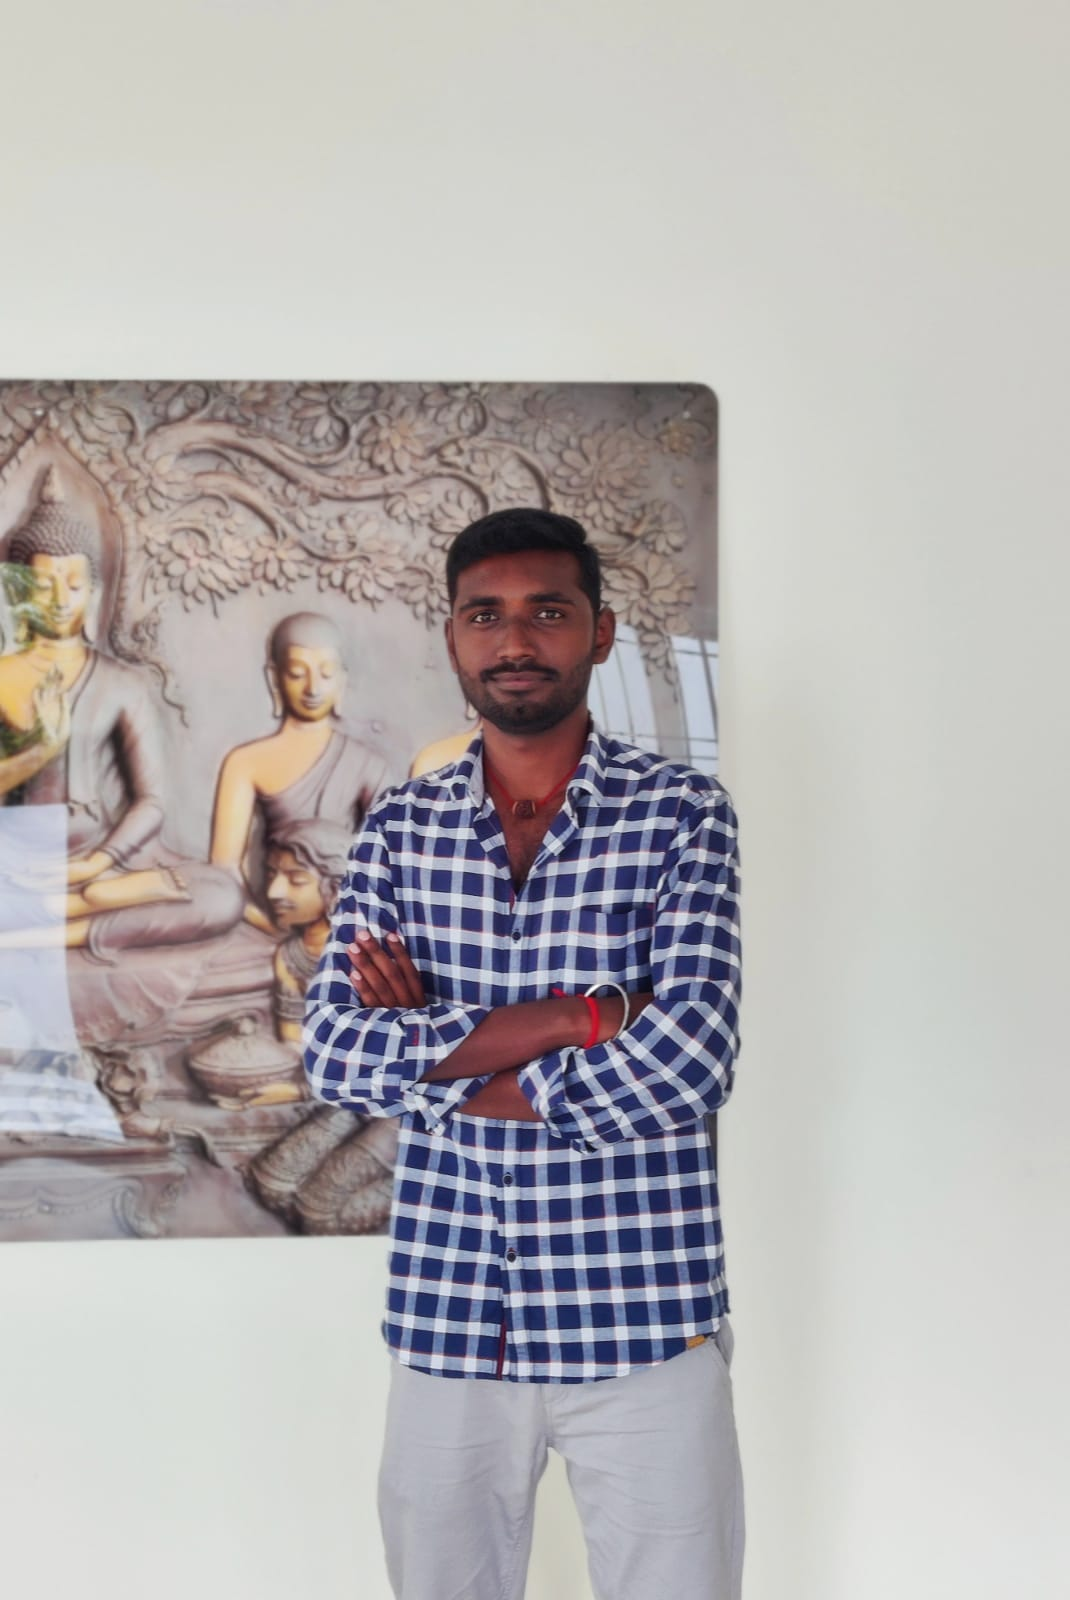
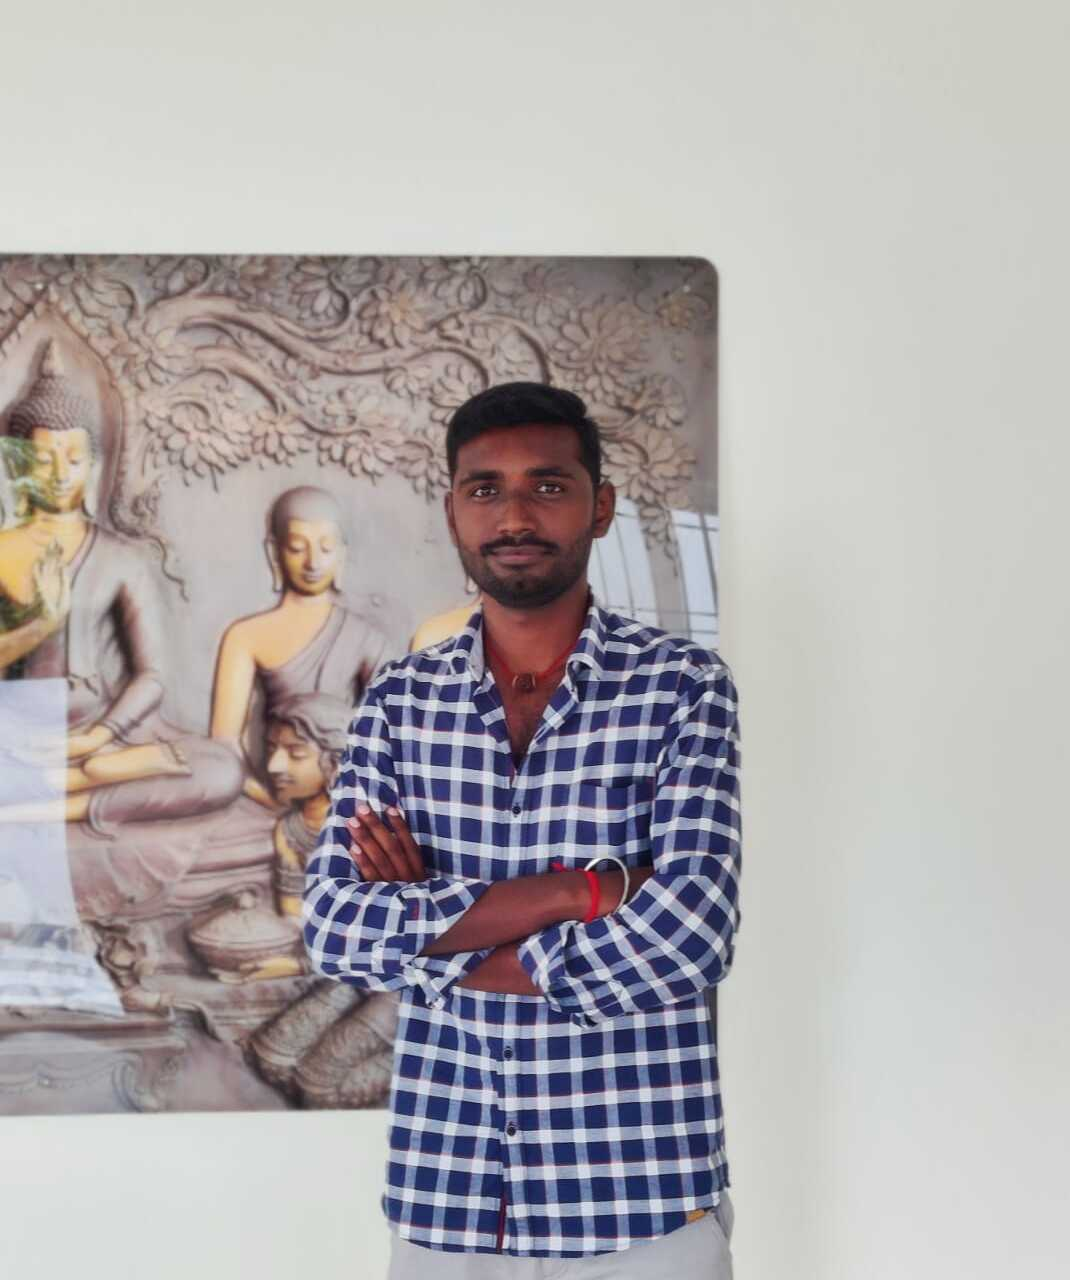
Add files via upload

diff --git a/index.html b/index.html
@@ -32,9 +32,9 @@
     </div>
     <section class="bg-img d-flex flex-column justify-content-center" id="home-section">
         <nav class="navbar navbar-dark navbar-expand-lg fixed-top" id="navbar">
-            <div class="container">
+            <div class="container align-items-center">
                 <!-- Brand -->
-                <a class="navbar-brand my_name" href="#"></a>
+                <a class="navbar-brand my_name" href="javascript:;"></a>
         
                 <!-- Hamburger Button: Visible on md and smaller -->
                 <button class="toggle-btn open-btn d-lg-none" type="button">
@@ -63,8 +63,8 @@
                 <!-- Mobile Sidebar Menu: Only on md and below -->
                 <div class="nav-bar d-lg-none">
                     <button class="close-btn"><i class="fas fa-circle-xmark"></i></button>
-                    <h3 class="margin-20px my_name"></h3>
-                    <p class="light-dark margin-rl pb-3">Menus</p>
+                    <!-- <h3 class="margin-20px my_name"></h3> -->
+                    <p class="light-dark margin-rl py-3 fw-bold text-uppercase">M e n u s</p>
                     <ul class="navbar-nav">
                         <li class="nav-item">
                             <a class="nav-link active-nav" href="#home-section"><i class="fas fa-house nav-icon"></i>Home</a>
@@ -89,15 +89,16 @@
             </div>
         </nav>
         
-        <main class="container text-white text-center my-5">
-            <h1 class="banner-text poppins-medium wow animate__animated animate__fadeInUp">I'M <span class="my_name"></span></h1>
-            <h2 class="poppins-regular mb-4 wow animate__animated animate__fadeInUp" data-wow-delay="0.2s">
-                <span class="txt-theme-color my_role_fname"></span> <span class="my_role_lname"></span>
-            </h2>
+        <main class="container text-white text-center">
+            <h4 class="poppins-regular text-ddd text-uppercase mb-4 wow animate__animated animate__fadeInUp" data-wow-delay="0.2s">
+                <span class="my_role_fname"></span> <span class="my_role_lname"></span>
+            </h4>
+            <h1 class="banner-text mb-4 poppins-medium wow animate__animated animate__fadeInUp"><span class="my_name"></span></h1>
+            <p class="text-ddd mb-5 wow animate__animated animate__fadeInUp"  data-wow-delay="0.3s">3+ years of experience in web and mobile application development.</p>
             <a href="mailto:sutharsanan100@gmail.com"
                class="nav-link hover-button py-3 px-5 wow animate__animated animate__fadeInUp"
                style="width: max-content; margin: auto;"
-               data-wow-delay="0.3s">
+               data-wow-delay="0.4s">
                <span>Hire Me</span>
             </a>
         </main>        
@@ -113,7 +114,7 @@
             </div>
             <div class="col-12 col-sm-12 col-md-12 col-lg-5">
                 <img src="./images/about_sub.svg" alt="" class="wow animate__animated animate__fadeInUp">
-                <p class="px-4 text-justify wow animate__animated animate__fadeInUp my_objectives"></p>
+                <p class="text-justify wow animate__animated animate__fadeInUp my_objectives"></p>
             </div>
         </div>
     </section>
@@ -172,28 +173,28 @@
             <div class="col-12 col-sm-12 col-md-12 col-lg-5">
                 <p class="mb-5 wow animate__animated animate__fadeInUp">For freelance projects or collaboration inquiries, feel free to reach out to me</p>
                 <div class="d-flex justify-content-start align-items-center mb-5 wow animate__animated animate__fadeInUp">
-                    <i class="fas fa-phone icon-rounded"></i>
+                    <i class="fas fa-phone icon-rounded call-icon-bg"></i>
                     <div class="d-flex flex-column">
                         <h5 class="m-0">Call</h5>
                         <p class="m-0"><a class="nav-link" href="tel:+918220224143">+91 8220224143</a></p>
                     </div>
                 </div>
                 <div class="d-flex justify-content-start align-items-center mb-5 wow animate__animated animate__fadeInUp">
-                    <i class="fab fa-whatsapp icon-rounded"></i>
+                    <i class="fab fa-whatsapp icon-rounded whatsapp-icon-bg"></i>
                     <div class="d-flex flex-column">
                         <h5 class="m-0">WhatsApp</h5>
                         <p class="m-0"><a class="nav-link" target="_blank" href="https://api.whatsapp.com/send?phone=8220224143&text=Hello">+91 8220224143</a></p>
                     </div>
                 </div>
                 <div class="d-flex justify-content-start align-items-center mb-5 wow animate__animated animate__fadeInUp">
-                    <i class="fas fa-envelope icon-rounded"></i>
+                    <i class="fas fa-envelope icon-rounded email-icon-bg"></i>
                     <div class="d-flex flex-column">
                         <h5 class="m-0">Email</h5>
                         <p class="m-0"><a class="nav-link" target="_blank" href="mailto:sutharsanan100@gmail.com">sutharsanan100@gmail.com</a></p>
                     </div>
                 </div>
                 <div class="d-flex justify-content-start align-items-center mb-5 wow animate__animated animate__fadeInUp">
-                    <i class="fab fa-linkedin icon-rounded"></i>
+                    <i class="fab fa-linkedin icon-rounded linkedin-icon-bg"></i>
                     <div class="d-flex flex-column">
                         <h5 class="m-0">LinkedIn</h5>
                         <p class="m-0"><a class="nav-link" target="_blank" href="https://www.linkedin.com/in/sutharsanan-a-s/">sutharsanan-a-s</a></p>
@@ -231,11 +232,11 @@
                     <h1 class="text-white mb-4 wow animate__animated animate__fadeInUp my_name"></h1>
                     <p class="text-white wow animate__animated animate__fadeInUp my_objectives"></p>
                         <div class="d-flex justify-content-center align-items-center mb-4 wow animate__animated animate__fadeInUp">
-                            <a class="nav-link" href="tel:+918220224143"><i class="fas fa-phone icon-rounded"></i></a>
-                            <a class="nav-link" target="_blank" href="https://api.whatsapp.com/send?phone=8220224143&text=Hello"><i class="fab fa-whatsapp icon-rounded"></i></a>
-                            <a class="nav-link" target="_blank" href="mailto:sutharsanan100@gmail.com"><i class="fas fa-envelope icon-rounded"></i></a>
-                            <a class="nav-link" target="_blank" href="https://www.linkedin.com/in/sutharsanan-a-s/"><i class="fab fa-linkedin icon-rounded"></i></a>
-                            <a class="nav-link" target="_blank" href="https://github.com/sutharsanan-007/"><i class="fab fa-github icon-rounded m-0"></i></a>
+                            <a class="nav-link" href="tel:+918220224143"><i class="fas fa-phone icon-rounded call-icon-bg"></i></a>
+                            <a class="nav-link" target="_blank" href="https://api.whatsapp.com/send?phone=8220224143&text=Hello"><i class="fab fa-whatsapp icon-rounded whatsapp-icon-bg"></i></a>
+                            <a class="nav-link" target="_blank" href="mailto:sutharsanan100@gmail.com"><i class="fas fa-envelope icon-rounded email-icon-bg"></i></a>
+                            <a class="nav-link" target="_blank" href="https://www.linkedin.com/in/sutharsanan-a-s/"><i class="fab fa-linkedin icon-rounded linkedin-icon-bg"></i></a>
+                            <a class="nav-link" target="_blank" href="https://github.com/sutharsanan-007/"><i class="fab fa-github icon-rounded github-icon-bg m-0"></i></a>
                         </div>
                 </div>
             </div>
@@ -255,8 +256,8 @@
     <script>
         const preloader = document.querySelector('#preloader');
         var myName = "SUTHARSANAN";
-        var myRoleFname = "Web";
-        var myRoleLname = "Developer";
+        var myRoleFname = "Software";
+        var myRoleLname = "Engineer";
         var myObjectives = `Motivated and detail-oriented professional with over 3+ years of experience in web and
                     mobile applications. Seeking a challenging role to further advance my skills and contribute to
                     the success of an innovative company. Committed to delivering high-quality code, fostering

diff --git a/js/script.js b/js/script.js
@@ -129,15 +129,15 @@ const educationData = [
 
 const experienceData = [
   {
-    company_name: "AIREI India Pvt Ltd",
+    company_name: "AIREI",
     role: "Software Engineer",
     location: "Coimbatore, Tamil Nadu, india - Onsite",
     period: "Full-time, Feb 2025 - Present",
     responsibilities: "Specialized in designing and developing high-performance hybrid mobile applications using the Ionic framework, Angular, and TypeScript. Proven expertise in building scalable cross-platform solutions for iOS and Android, with seamless integration of RESTful APIs and native functionalities via Cordova/Capacitor and full-cycle deployment to the Apple App Store and Google Play Store."
   },
   {
-    company_name: "dsignz media",
-    role: "Web & App Developer",
+    company_name: "DSIGNZ MEDIA",
+    role: "Web Developer",
     location: "Coimbatore, Tamil Nadu, india - Onsite",
     period: "Full-time, Dec 2022 - Jan 2025",
     responsibilities: "Developed responsive web and mobile applications using HTML, CSS, JavaScript, jQuery, Bootstrap, Angular, and Ionic. Implemented backend functionality with PHP, Laravel, and MySQLi. Integrated Razorpay (Collect Now) payment gateway for seamless payment processing. Managed client communications to gather requirements, provide updates, and ensure successful project delivery."
@@ -154,7 +154,7 @@ function appendExperienceSection() {
     card.innerHTML = `
       <span class="position-absolute rounded-circle-position translate-middle p-2 bg-white border border-3 border-theme-color rounded-circle"></span>
       <h5 class="fw-bold">${item.company_name}</h5>
-      <div class="fw-bold mb-1">${item.role}</div>
+      <div class="fw-bold mb-1 text-uppercase">${item.role}</div>
       <div class="mb-1">${item.period}</div>
       <div class="fst-italic text-muted mb-1">${item.location}</div>
       <p>${item.responsibilities}</p>
@@ -220,12 +220,6 @@ const skillsData = [
 
   const projectsData = [
     {
-      image: 'images/projects/arambam_school.png',
-      title: 'Arambam School',
-      skills: 'Html, Css, Js, JQuery, Php, Mysql',
-      description: 'High quality education to children in need to make a step change difference in their educational attainment and future prospects.'
-    },
-    {
       image: 'images/projects/cumi_careers.png',
       title: 'Cumi Careers',
       skills: 'Html, Css, Js, JQuery, Bootstrap, Php, Mysql',
@@ -236,12 +230,6 @@ const skillsData = [
       title: 'Decso Plus',
       skills: 'Html, Css, Typescript, Angular, Ionic, Laravel, Mysql',
       description: 'Dental doctor service provides comprehensive patient care through qualified dental professionals, including junior doctor, BDS duty doctor and MDS consultant.'
-    },
-    {
-      image: 'images/projects/eo_coimbatore.png',
-      title: 'Eo Coimbatore',
-      skills: 'Html, Css, Js, JQuery, Bootstrap, Php, Mysql, Atom Aes',
-      description: 'EO - Coimbatore chapter is a relatively young chapter and is about 80 members strong. For a small brief about Coimbatore chapter - The total member company sales of the coimbatore.'
     },
     {
       image: 'images/projects/sri_lalitam.png',
@@ -281,8 +269,8 @@ const skillsData = [
           <img src="${item.image}" class="project-img rounded-0 w-100" alt="${item.title}">
           <div class="overlay position-absolute top-0 start-0 w-100 h-100 d-flex flex-column justify-content-center align-items-center text-white text-center px-3">
             <h4 class="mb-2">${item.title}</h4>
-            <p class="mb-2 small">${item.description}</p>
-            <p class="small">Technologies: ${item.skills}</p>
+            <p class="mb-2 font-size-12px">${item.description}</p>
+            <p class="font-size-12px">Technologies: ${item.skills}</p>
           </div>
         </div>
       `;

diff --git a/css/style.css b/css/style.css
@@ -1,3 +1,6 @@
+:root {
+  --primary-color: #1f67f0;
+}
 * {
   font-family: "Poppins", sans-serif;
 }
@@ -16,7 +19,7 @@ body.no-scroll {
 .hover-button {
   position: relative;
   padding: 15px 30px;
-  font-size: 16px;
+  font-size: 14px;
   color: white;
   background-color: transparent;
   border: none;
@@ -25,7 +28,7 @@ body.no-scroll {
   overflow: hidden;
   transition: color 0.4s ease;
   border: 1px solid #fff;
-  border-radius: 30px;
+  border-radius: 0;
 }
 
 .hover-button::before {
@@ -97,7 +100,7 @@ body.no-scroll {
   background: transparent;
   border: none;
   color: white;
-  font-size: 24px;
+  font-size: 22px;
   cursor: pointer;
 }
 
@@ -105,7 +108,7 @@ body.no-scroll {
   background: transparent;
   border: none;
   color: white;
-  font-size: 24px;
+  font-size: 18px;
   cursor: pointer;
   position: absolute;
   top: 13px;
@@ -132,16 +135,16 @@ body.no-scroll {
 
 /* theme color */
 .txt-theme-color {
-  color: #e43c5c;
+  color: var(--primary-color);
 }
 
 .theme-bg-color {
-  background-color: #e43c5c;
+  background-color: var(--primary-color);
 }
 
 .theme-bg-color-btn,
 .theme-bg-color-btn:hover {
-  background-color: #e43c5c;
+  background-color: var(--primary-color);
   color: #fff;
 }
 .light-dark{
@@ -176,7 +179,7 @@ body.no-scroll {
 
 /* border */
 .theme-border {
-  border-bottom: 2px solid #e43c5c;
+  border-bottom: 2px solid var(--primary-color);
 }
 .center-img-auto{
   margin: auto;
@@ -199,7 +202,7 @@ body.no-scroll {
 
 /* bg banner */
 .bg-img {
-  background: linear-gradient(rgba(0, 0, 0, 0.6), rgba(0, 0, 0, 0.6)), url('../images/bgimg.jpeg');
+  background: linear-gradient(rgba(0, 0, 0, 0.7), rgba(0, 0, 0, 0.7)), url('../images/DSC_1037.JPG');
   background-position: center;
   background-attachment: fixed;
   background-size: cover;
@@ -249,7 +252,7 @@ body.no-scroll {
   }
 
   100% {
-    box-shadow: 48px 0 #e43c5c inset;
+    box-shadow: 48px 0 var(--primary-color) inset;
   }
 }
 
@@ -267,12 +270,11 @@ body.no-scroll {
   width: 25px;
 }
 .active-nav{
-  color: #e43c5c !important;
+  color: var(--primary-color) !important;
 }
 .icon-rounded{
   width: 45px;
   height: 45px;
-  background-color: #e43c5c;
   display: flex;
   justify-content: center;
   align-items: center;
@@ -280,8 +282,29 @@ body.no-scroll {
   color: #fff;
   margin-right: 15px;
 }
+.call-icon-bg{
+  background-color: var(--primary-color);
+}
+.whatsapp-icon-bg{
+  background-color: #4FCE5D;
+}
+.email-icon-bg{
+  background-color: #EA4335;
+}
+.linkedin-icon-bg{
+  background-color: #0077B5;
+}
+.github-icon-bg{
+  background-color: #000;
+}
+.font-size-12px{
+  font-size: 12px;
+}
 .font-size-14px{
   font-size: 14px;
+}
+.text-ddd {
+  color: #ddd !important;
 }
 /* form */
 .inputf {
@@ -324,7 +347,7 @@ body.no-scroll {
   width: 120px;
   height: 1px;
   display: inline-block;
-  background: #e43c5c;
+  background: var(--primary-color);
   margin: 5px 10px;
 }
 
@@ -333,7 +356,7 @@ body.no-scroll {
   left: -25px;
 }
 .border-theme-color{
-  border-color: #e43c5c !important;
+  border-color: var(--primary-color) !important;
 }
 
 .project-card {
